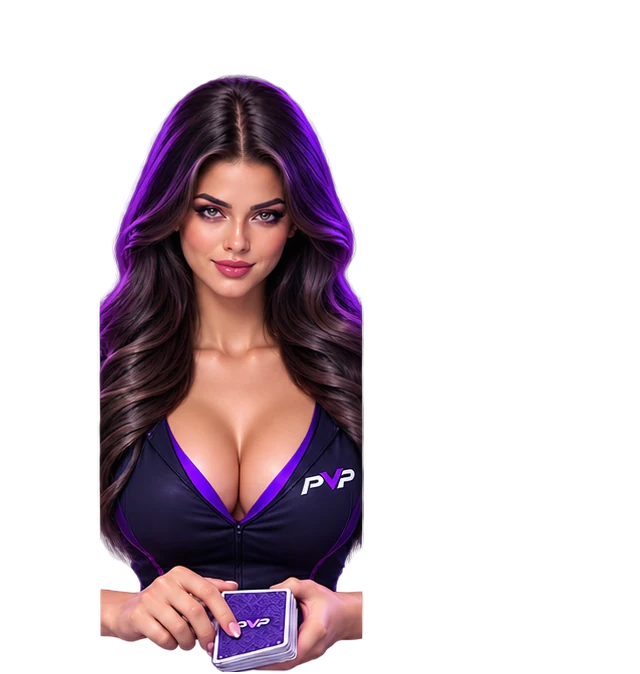
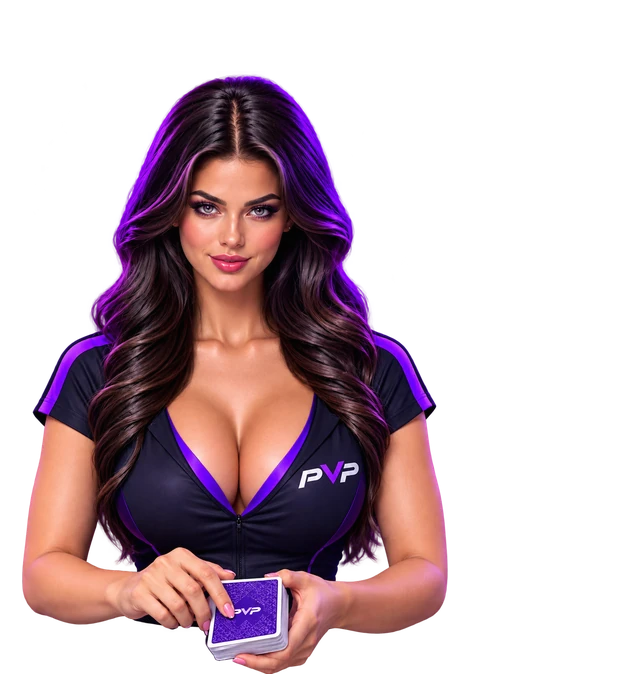
Show the full cutout as the dealer's resting pose.
The idle frame was clipped through the cards. The new cutout is aligned to the same head anchor, and dealt cards still leave the deck in her hands.

Changed region(s): [[0.0312, 0.0935, 0.7188, 1.0]]

diff --git a/src/lib/poker/dealer-frames.ts b/src/lib/poker/dealer-frames.ts
@@ -14,7 +14,7 @@ export const DEALER_ANCHOR = {
   y: anchorY / manifest.canvas.h,
 };
 /** Deck in her hands on the idle frame, as a fraction of the shared canvas. */
-export const DEALER_DECK = { x: 0.4, y: 0.91 };
+export const DEALER_DECK = { x: 0.39, y: 0.91 };
 
 export const DEALER_IDLE_URL = idleUrl;
 
